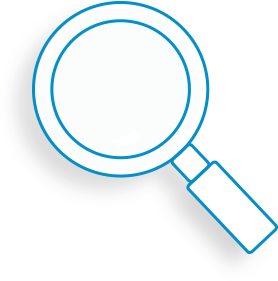
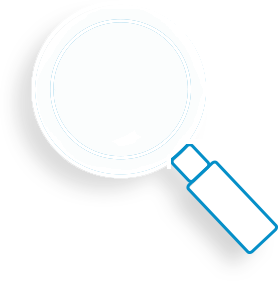
м

diff --git a/index.html b/index.html
@@ -58,7 +58,7 @@
           </div>
         </div>
         <div class="rounded5 mt5">
-          <div class="blue tac">
+          <div class="blue tac" style="width:100%;">
             <div class="ttu">Способы оплаты</div>
             <div class="bysides">
               <div><img src="i/visa-mastercard.png" width="27"></div>
@@ -94,7 +94,7 @@
             .attr("height", 180)
             .append("g")
             .attr("transform", "translate(90,90)");
-          console.log(svg);
+
           var arc = d3.svg.arc()
             .innerRadius(70)
             .outerRadius(85)
@@ -104,6 +104,26 @@
           var path = svg.append("path")
             .attr("class", "arc")
             .attr("d", arc);
+
+          var arc1 = d3.svg.arc()
+            .innerRadius(85)
+            .outerRadius(88)
+            .startAngle(0)
+            .endAngle(2 * Math.PI);
+
+          var path1 = svg.append("path")
+            .attr("class", "arc1")
+            .attr("d", arc1);
+
+          var arc2 = d3.svg.arc()
+            .innerRadius(67)
+            .outerRadius(70)
+            .startAngle(0)
+            .endAngle(2 * Math.PI);
+
+          var path2 = svg.append("path")
+            .attr("class", "arc1")
+            .attr("d", arc2);
 
           setTimeout(function() {
             var arc = d3.svg.arc()

diff --git a/css/style.css b/css/style.css
@@ -4015,8 +4015,8 @@ a, .pseudolink {
     width: 278px;
     height: 281px;
     position: absolute;
-    left: -31px;
-    top: 0; }
+    left: -30px;
+    top: 1px; }
 
 #eye {
   position: absolute;
@@ -4045,5 +4045,8 @@ a, .pseudolink {
     background-position: 0 0; } }
 .arc {
   fill: #08d0e8; }
+
+.arc1 {
+  fill: #058fc7; }
 
 /*# sourceMappingURL=style.css.map */

diff --git a/css/search-throbber.scss b/css/search-throbber.scss
@@ -90,8 +90,8 @@
     width:278px;
     height:281px;
     position: absolute;
-    left:-31px;
-    top:0;
+    left:-30px;
+    top:1px;
   }
 }
 
@@ -118,5 +118,9 @@
 }
 
 .arc {
-  fill: #08d0e8;
+   fill: #08d0e8;
+ }
+
+.arc1 {
+  fill: $blue;
 }
